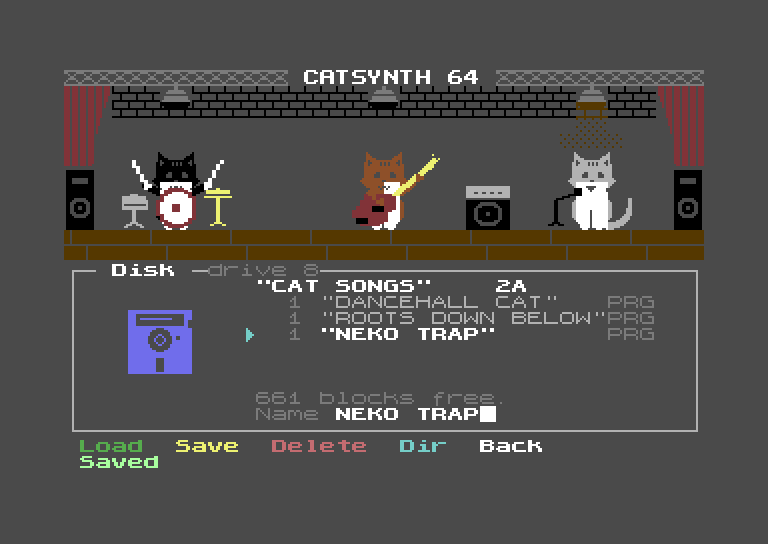
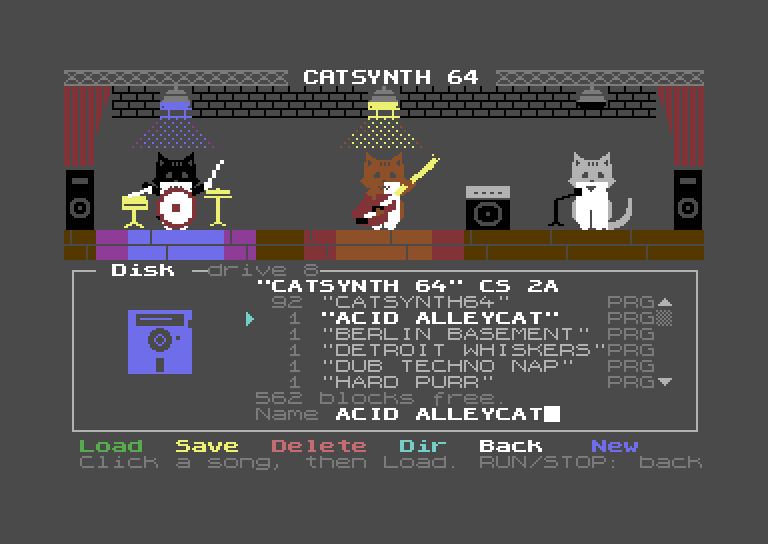
Website: a plainer landing page, the second SID in the manual
- The landing page in plain words, its features in three short groups
  (make music, shape the sound, plug in), plain section labels.
- New screenshots of the help card and the disk page.
- The manual: a "A second SID" section in Chapter 1, the second SID in
  "What you need" and in the dub echo lesson.

Claude-Session: https://claude.ai/code/session_011id3EQ7NvVtuWDJtLuHYvU

diff --git a/docs/index.html b/docs/index.html
@@ -4,7 +4,7 @@
 <meta charset="utf-8">
 <meta name="viewport" content="width=device-width, initial-scale=1, viewport-fit=cover">
 <title>CatSynth 64</title>
-<meta name="description" content="A groovebox for the Commodore 64 with a band of three cats. By illobo/netmilk.">
+<meta name="description" content="A music program for the Commodore 64 with a band of three cats. By illobo/netmilk.">
 <link rel="preconnect" href="https://fonts.googleapis.com">
 <link rel="preconnect" href="https://fonts.gstatic.com" crossorigin>
 <link rel="stylesheet" href="https://fonts.googleapis.com/css2?family=Archivo:wght@500;700;800;900&family=Public+Sans:ital,wght@0,400;0,600;1,400&family=Press+Start+2P&display=swap">
@@ -53,6 +53,9 @@ figure.shot { margin: 18px 0; }
 .shot img { width: 100%; height: auto; image-rendering: pixelated; display: block; border: 10px solid #222;
   border-radius: 6px; background: #000; }
 .shot figcaption { font-size: 13px; color: var(--ink-soft); margin-top: 8px; }
+.cols { display: grid; grid-template-columns: repeat(3, minmax(0, 1fr)); gap: 8px 32px; }
+.cols h3 { margin-top: 8px; }
+@media (max-width: 820px) { .cols { grid-template-columns: minmax(0, 1fr); } }
 .shots { display: grid; grid-template-columns: repeat(2, minmax(0, 1fr)); gap: 8px 24px; }
 @media (max-width: 640px) { .shots { grid-template-columns: minmax(0, 1fr); } }
 .wrap { max-width: 1060px; margin: 0 auto; display: grid; grid-template-columns: 220px minmax(0, 1fr); gap: 48px; }
@@ -110,61 +113,59 @@ footer { max-width: 1060px; margin: 48px auto 0; color: var(--ink-soft); font-si
 <header class="cover">
   <div>
     <div class="kicker">Commodore 64 &middot; v1.0 &middot; 2026</div>
-    <h1>CatSynth 64<b>A groovebox with a band of three cats</b></h1>
-    <p>Ringo Purr on drums, Paw McCatney on bass and Mick Jaguar, who sings in meows. For the Commodore 64 (PAL), the C64 Ultimate and the Ultimate 64, by illobo/netmilk.</p>
+    <h1>CatSynth 64<b>A music program with a band of three cats</b></h1>
+    <p>For the Commodore 64 (PAL), the C64 Ultimate and the Ultimate 64. By illobo/netmilk.</p>
     <div class="buttons"><a class="button" href="play/">Play in the browser</a>
     <a class="button alt" href="download/catsynth64-1.0.d64">Download the disk</a></div>
   </div>
-  <figure class="shot"><img src="img/title.png" alt="The title screen: three cats on a stage, CATSYNTH 64 in big letters, v1.0" width="768" height="544" loading="lazy"><figcaption>The title screen, photographed off a C64 Ultimate.</figcaption></figure>
+  <figure class="shot"><img src="img/title.png" alt="The title screen: three cats on a stage, CATSYNTH 64 in big letters, v1.0" width="768" height="544" loading="lazy"><figcaption>The title screen, on a C64 Ultimate.</figcaption></figure>
 </header>
 <div class="wrap single"><main>
 <section class="chapter" id="what">
-  <div class="chap nonum"><div><div class="lbl">Meet the band</div><h2>What is it?</h2></div></div>
-  <p>Three cats play in a band on your Commodore 64. Choose one of ten styles and they start playing. Then make the
-  song yours: click a step to add a drum, a bass note or a meow. Every meow lands on a note of the song's scale, so
-  the singer is never out of tune. Chain bars into a song, play the pads live, record into the loop and save your
-  songs to disk.</p>
-  <p>You do not need to know anything about music. If you do, you will find modes, scales, transposes, swing, dub
-  echoes and a looper waiting for you.</p>
-  <div class="shots"><figure class="shot"><img src="img/drums.png" alt="The drum matrix playing neko trap" width="768" height="544" loading="lazy"><figcaption>The drums: two sounds a row, left and right button.</figcaption></figure><figure class="shot"><img src="img/bass.png" alt="The bass matrix: notes on rows, a slide" width="768" height="544" loading="lazy"><figcaption>The bass: notes, lengths and slides.</figcaption></figure><figure class="shot"><img src="img/meows.png" alt="The meows: a melody of cat marks" width="768" height="544" loading="lazy"><figcaption>The meows: always in key.</figcaption></figure><figure class="shot"><img src="img/meowpage.png" alt="The Meows page" width="768" height="544" loading="lazy"><figcaption>Bend, Vowel, Tone and Cat Size.</figcaption></figure><figure class="shot"><img src="img/basspage.png" alt="The Bass page" width="768" height="544" loading="lazy"><figcaption>Level, a dub delay, Meowize and an acid squelch.</figcaption></figure><figure class="shot"><img src="img/styles.png" alt="The style list" width="768" height="544" loading="lazy"><figcaption>Any song with any style's sounds.</figcaption></figure><figure class="shot"><img src="img/disk.png" alt="The disk page" width="768" height="544" loading="lazy"><figcaption>Your songs on disk, by name.</figcaption></figure><figure class="shot"><img src="img/help.png" alt="The help card" width="768" height="544" loading="lazy"><figcaption>Every key on one card (RUN/STOP).</figcaption></figure></div>
+  <div class="chap nonum"><div><div class="lbl">About</div><h2>What is it?</h2></div></div>
+  <p>CatSynth 64 is a music program for the Commodore 64. Three cats play in a band: Ringo Purr on drums,
+  Paw McCatney on bass, and Mick Jaguar, who sings in meows.</p>
+  <p>Pick a style and the band starts playing. Then change the song step by step with the mouse or the
+  keyboard: add a drum, move a bass note, give the singer a new melody. You do not need to know music. Every
+  note the bass and the singer play fits the song.</p>
+  <div class="shots"><figure class="shot"><img src="img/drums.png" alt="The drum matrix" width="768" height="544" loading="lazy"><figcaption>The drums.</figcaption></figure><figure class="shot"><img src="img/bass.png" alt="The bass matrix: notes on rows" width="768" height="544" loading="lazy"><figcaption>The bass.</figcaption></figure><figure class="shot"><img src="img/meows.png" alt="The meows: a melody of cat marks" width="768" height="544" loading="lazy"><figcaption>The singer.</figcaption></figure><figure class="shot"><img src="img/meowpage.png" alt="The Meows page" width="768" height="544" loading="lazy"><figcaption>Settings for the meows.</figcaption></figure><figure class="shot"><img src="img/basspage.png" alt="The Bass page" width="768" height="544" loading="lazy"><figcaption>Settings for the bass.</figcaption></figure><figure class="shot"><img src="img/styles.png" alt="The style list" width="768" height="544" loading="lazy"><figcaption>The ten styles.</figcaption></figure><figure class="shot"><img src="img/disk.png" alt="The disk page" width="768" height="544" loading="lazy"><figcaption>Loading and saving songs.</figcaption></figure><figure class="shot"><img src="img/help.png" alt="The help card" width="768" height="544" loading="lazy"><figcaption>The help card, with every key.</figcaption></figure></div>
 </section>
 <section class="chapter" id="features">
-  <div class="chap nonum"><div><div class="lbl">At a glance</div><h2>What it can do</h2></div></div>
-  <div class="table-wrap"><table><tr><td><b>3 cats</b></td><td>drums (14 sounds, two a row: the left and right mouse buttons), bass and meows</td></tr><tr><td><b>10 styles</b></td><td>dancehall, roots, steppers, ska, bossa, disco, funk, Neko Trap, acid and a blues shuffle, each with its own kit, bass, scale and a four-bar song</td></tr><tr><td><b>10 slots</b></td><td>ten songs in memory on the keys 1 to 0, switched on the bar line; <kbd>SHIFT</kbd>+<kbd>1-0</kbd> plays a song with another style's sounds</td></tr><tr><td><b>Mouse</b></td><td>a 1351 mouse in port 1 (a USB mouse on the C64 Ultimate); a joystick in port 2 moves the pointer too</td></tr><tr><td><b>Songs</b></td><td>four bars A to D and a chain of up to 16 bars</td></tr><tr><td><b>Settings</b></td><td>Bend, Vowel and Tone for each meow, Cat Size, a sidechain, the kit's tune, the bass's level and wave, Meowize, an acid squelch and a dub filter</td></tr><tr><td><b>Live</b></td><td>the keyboard as pads, and a looper</td></tr><tr><td><b>Second SID</b></td><td>dub echoes, a harmony singer and a bass delay</td></tr><tr><td><b>Disk</b></td><td>a directory, names, load, save, delete, and ten techno songs to start from</td></tr></table></div>
+  <div class="chap nonum"><div><div class="lbl">Features</div><h2>What it can do</h2></div></div>
+  <div class="cols"><div><h3>Make music</h3><ul class="plain"><li>Ten styles to start from: dancehall, roots, steppers, ska, bossa, disco, funk, Neko Trap, acid and a blues shuffle</li><li>Ten songs in memory, on the keys 1 to 0</li><li>Four bars per song, played in any order, up to 16 bars long</li><li>Play the keyboard live and record into the loop</li></ul></div><div><h3>Shape the sound</h3><ul class="plain"><li>Drums: 14 sounds, plus sidechain and tuning</li><li>Bass: volume, delay, waveform and filter effects</li><li>Singer: four kinds of meow, each with its own pitch bend, vowel and tone</li><li>Give any song the sounds of another style</li></ul></div><div><h3>Plug in</h3><ul class="plain"><li>A mouse (1351, or a USB mouse on the C64 Ultimate) or a joystick</li><li>A disk drive to load and save songs; the disk comes with ten techno songs</li><li>A second SID chip, optional, for echoes, a harmony singer and a bass delay</li></ul></div></div>
 </section>
 <section class="chapter" id="start">
-  <div class="chap nonum"><div><div class="lbl">Start here</div><h2>Your first song</h2></div></div>
-  <p>The tutorial makes your first song in ten minutes; the manual tells you everything else.</p>
+  <div class="chap nonum"><div><div class="lbl">Learn</div><h2>Your first song</h2></div></div>
+  <p>The tutorial walks you through your first song in about ten minutes. The manual covers everything
+  else.</p>
   <div class="buttons"><a class="button" href="tutorial.html">The tutorial</a>
   <a class="button alt" href="manual.html">The manual</a></div>
-  <div class="box try"><b>Play it here</b><p>The <a href="play/">browser version</a> runs CatSynth 64 in an
-  emulator. Best with a keyboard and a mouse: click the screen and move the mouse, and the cat paw pointer follows.
-  <kbd>SPACE</kbd> plays and stops, <kbd>1</kbd> to <kbd>0</kbd> choose a song: in the browser the ten slots hold
-  the ten techno songs (New, then Defaults, on the disk page brings the styles' songs back).</p></div>
+  <div class="box try"><b>Try it in the browser</b><p>The <a href="play/">browser version</a> runs
+  CatSynth 64 in an emulator. Use a keyboard and a mouse: click the screen, then move the mouse to move the
+  pointer. <kbd>SPACE</kbd> starts and stops the band, and <kbd>1</kbd> to <kbd>0</kbd> pick a song. In the
+  browser the ten songs are the techno songs from the disk.</p></div>
 </section>
 <section class="chapter" id="get">
   <div class="chap nonum"><div><div class="lbl">Download</div><h2>Get it</h2></div></div>
-  <p>It runs on a real Commodore 64 (PAL), on a C64 Ultimate or an Ultimate 64, and in the VICE emulator.</p>
+  <p>It runs on a Commodore 64 (PAL), a C64 Ultimate, an Ultimate 64 and in the VICE emulator.</p>
   <div class="table-wrap"><table>
     <tr><td><a href="download/catsynth64-1.0.d64">catsynth64-1.0.d64</a></td><td>the disk: the program and ten techno songs</td></tr>
-    <tr><td><a href="download/catsynth64-1.0.prg">catsynth64-1.0.prg</a></td><td>the program file alone</td></tr>
-    <tr><td><a href="download/catsynth64-1.0.zip">catsynth64-1.0.zip</a></td><td>both, with the manual and the readme as text</td></tr>
+    <tr><td><a href="download/catsynth64-1.0.prg">catsynth64-1.0.prg</a></td><td>the program alone</td></tr>
+    <tr><td><a href="download/catsynth64-1.0.zip">catsynth64-1.0.zip</a></td><td>both, with the manual and the readme as text files</td></tr>
   </table></div>
-  <p>On the disk, type:</p>
+  <p>To load it from the disk, type:</p>
   <div class="screen">LOAD"CATSYNTH64",8,1
 RUN</div>
   <p>The source code (6502 assembler, 64tass) is on <a href="https://github.com/illobo/catsynth64">GitHub</a>.</p>
 </section>
 <section class="chapter" id="box">
-  <div class="chap nonum"><div><div class="lbl">If it had come out in 1986</div><h2>The box</h2></div></div>
+  <div class="chap nonum"><div><div class="lbl">Extras</div><h2>Box art</h2></div></div>
   <div class="shots">
     <figure class="shot"><a href="boxart.html"><img src="img/box-cover.jpg" alt="The box's front cover: a black cat at a microphone against a big yellow spotlight, CATSYNTH 64 in striped eighties lettering" width="575" height="775" loading="lazy"></a></figure>
-    <div><p>The CatSynth 64 box as it would have stood on a shop shelf in the mid-eighties: one black cat
-    against a spotlight, striped lettering, faded inks on yellowed card.</p>
+    <div><p>A box for CatSynth 64 in the style of mid-eighties C64 software.</p>
     <p><a class="button alt" href="boxart.html">See the whole box</a></p>
-    <p>The back with its screen shots and blurb, the spine, and the 5&frac14;-inch disk with its sleeve.</p></div>
+    <p>The front, the back, the spine, and the 5&frac14;-inch disk with its sleeve.</p></div>
   </div>
-  <div class="end">HAVE FUN!</div>
 </section>
 </main></div>
 <footer>CatSynth 64 1.0 &middot; (c) 2026 illobo/netmilk &middot; MIT licence &middot;

diff --git a/docs/manual.html b/docs/manual.html
@@ -53,6 +53,9 @@ figure.shot { margin: 18px 0; }
 .shot img { width: 100%; height: auto; image-rendering: pixelated; display: block; border: 10px solid #222;
   border-radius: 6px; background: #000; }
 .shot figcaption { font-size: 13px; color: var(--ink-soft); margin-top: 8px; }
+.cols { display: grid; grid-template-columns: repeat(3, minmax(0, 1fr)); gap: 8px 32px; }
+.cols h3 { margin-top: 8px; }
+@media (max-width: 820px) { .cols { grid-template-columns: minmax(0, 1fr); } }
 .shots { display: grid; grid-template-columns: repeat(2, minmax(0, 1fr)); gap: 8px 24px; }
 @media (max-width: 640px) { .shots { grid-template-columns: minmax(0, 1fr); } }
 .wrap { max-width: 1060px; margin: 0 auto; display: grid; grid-template-columns: 220px minmax(0, 1fr); gap: 48px; }
@@ -125,7 +128,7 @@ footer { max-width: 1060px; margin: 48px auto 0; color: var(--ink-soft); font-si
 <section class="chapter" id="1-setting-up">
 <div class="chap"><div class="num l1">1</div><div><div class="lbl">Chapter 1</div><h2>Setting up</h2></div></div>
 <h3 id="what-you-need">What you need</h3>
-<ul class="plain"><li>A Commodore 64 (PAL), a C64 Ultimate or an Ultimate 64</li><li>A disk drive as device 8 with the CatSynth 64 disk</li><li>A TV or monitor with sound turned up</li><li>A mouse in port 1 (you can play without one): a 1351, or on the C64 Ultimate a USB mouse, which the Ultimate turns into a 1351</li><li>A joystick in port 2 (you can play without one, too)</li><li>A blank disk if you want to save songs</li></ul>
+<ul class="plain"><li>A Commodore 64 (PAL), a C64 Ultimate or an Ultimate 64</li><li>A disk drive as device 8 with the CatSynth 64 disk</li><li>A TV or monitor with sound turned up</li><li>A mouse in port 1 (you can play without one): a 1351, or on the C64 Ultimate a USB mouse, which the Ultimate turns into a 1351</li><li>A joystick in port 2 (you can play without one, too)</li><li>A blank disk if you want to save songs</li><li>A second SID chip, if you have one (see below): the band sounds bigger with it, and everything also works without</li></ul>
 <h3 id="loading-the-program">Loading the program</h3>
 <p>Switch on the computer and the drive, put the disk in the drive and type:</p>
 <div class="screen">LOAD&quot;CATSYNTH64&quot;,8,1</div>
@@ -142,7 +145,11 @@ READY.</div>
 <p>While you hold a mouse button down, the keyboard is not read. Let go of the button before you press a key.</p>
 <h3 id="the-joystick">The joystick</h3>
 <p>The joystick in port 2 works exactly like the mouse: it moves the same pointer. Push it and the pointer moves, slowly at first and faster the longer you hold it. <kbd>FIRE</kbd> is the left mouse button: the click happens when you let go. Hold <kbd>FIRE</kbd> for half a second and it is the right button. Everything this guide says about clicks works with the joystick, too. While you hold the joystick, the keyboard is not read.</p>
-<p>NOTE: If your Commodore 64 has a second SID chip, or your C64 Ultimate has its second UltiSID set to address $D420, CatSynth 64 finds it by itself. The echoes, the harmony meow and the bass delay then play on the second chip, and the singer's harmony setting shows "Off" instead of "--". Everything else works the same with one SID.</p>
+<h3 id="a-second-sid">A second SID</h3>
+<p>The SID is the C64's sound chip, and it has three voices: CatSynth 64 gives one to each cat. A second SID adds three more voices, and the band uses all of them:</p>
+<ul class="plain"><li>THE DUB ECHOES get a voice of their own. With one SID an echo can only sound on the singer's voice, between her meows; with two the echoes ring on while she sings the next meow.</li><li>THE HARMONY SINGER: a second singer a third or a fifth above the first (press <kbd>H</kbd>, Chapter 5).</li><li>THE BASS DELAY: the bass comes back a few steps later, and with the Dub filter its repeats sweep through the second chip's filter (the Bass page, Chapter 6).</li></ul>
+<p>There is nothing to switch on in CatSynth 64: it looks for a second SID at address $D420 (and at $D440, $D460 ... up to $D4E0) as it starts. On a C64 Ultimate or an Ultimate 64, set the second SID (the second UltiSID, or a real chip in the second socket) to $D420 in the Ultimate's menu, then load CatSynth 64. On a real C64 you need a dual-SID board set to one of those addresses.</p>
+<p>How to tell that it was found: the singer's settings line shows the harmony as "Off" (without a second SID it shows "--"), and the Bass page has no "Delay: on SID 2" reminder. Without a second SID everything else works just the same.</p>
 </section>
 <section class="chapter" id="2-meet-the-band">
 <div class="chap"><div class="num l2">2</div><div><div class="lbl">Chapter 2</div><h2>Meet the band</h2></div></div>
@@ -204,6 +211,7 @@ o     RECORD. Live play with recording switched on (Chapter 7).
 <h3 id="lesson-6-the-dub-echo">Lesson 6: the dub echo</h3>
 <p>Every meow comes back as an echo, a little darker and quieter. Grey marks in the singer's matrix show where the echoes land.</p>
 <p>Press <kbd>E</kbd> to change how far apart the echoes are, from 2 to 8 steps, or switch them off. With the mouse, click along the "Echo" slider at the left of the singer's settings line: off, 2, 3, 4, 6 and 8 steps.</p>
+<p>With a second SID chip (Chapter 1) the echoes get a voice of their own and keep ringing while the singer goes on with the next meow; with one SID they sound between her meows.</p>
 <div class="box try"><b>Try this</b><p>set the echo to 3 and put two meows a bar apart. Now you have a real dub song!</p></div>
 <h3 id="lesson-7-faster-slower-stop">Lesson 7: faster, slower, stop</h3>
 <p>Press <kbd>+</kbd> to play faster and - to play slower, or click the - and + next to the tempo. The tempo shows in beats per minute.</p>

diff --git a/docs/tutorial.html b/docs/tutorial.html
@@ -53,6 +53,9 @@ figure.shot { margin: 18px 0; }
 .shot img { width: 100%; height: auto; image-rendering: pixelated; display: block; border: 10px solid #222;
   border-radius: 6px; background: #000; }
 .shot figcaption { font-size: 13px; color: var(--ink-soft); margin-top: 8px; }
+.cols { display: grid; grid-template-columns: repeat(3, minmax(0, 1fr)); gap: 8px 32px; }
+.cols h3 { margin-top: 8px; }
+@media (max-width: 820px) { .cols { grid-template-columns: minmax(0, 1fr); } }
 .shots { display: grid; grid-template-columns: repeat(2, minmax(0, 1fr)); gap: 8px 24px; }
 @media (max-width: 640px) { .shots { grid-template-columns: minmax(0, 1fr); } }
 .wrap { max-width: 1060px; margin: 0 auto; display: grid; grid-template-columns: 220px minmax(0, 1fr); gap: 48px; }
@@ -175,6 +178,7 @@ o     RECORD. Live play with recording switched on (Chapter 7).
 <h3 id="lesson-6-the-dub-echo">Lesson 6: the dub echo</h3>
 <p>Every meow comes back as an echo, a little darker and quieter. Grey marks in the singer's matrix show where the echoes land.</p>
 <p>Press <kbd>E</kbd> to change how far apart the echoes are, from 2 to 8 steps, or switch them off. With the mouse, click along the "Echo" slider at the left of the singer's settings line: off, 2, 3, 4, 6 and 8 steps.</p>
+<p>With a second SID chip (Chapter 1) the echoes get a voice of their own and keep ringing while the singer goes on with the next meow; with one SID they sound between her meows.</p>
 <div class="box try"><b>Try this</b><p>set the echo to 3 and put two meows a bar apart. Now you have a real dub song!</p></div>
 <h3 id="lesson-7-faster-slower-stop">Lesson 7: faster, slower, stop</h3>
 <p>Press <kbd>+</kbd> to play faster and - to play slower, or click the - and + next to the tempo. The tempo shows in beats per minute.</p>
